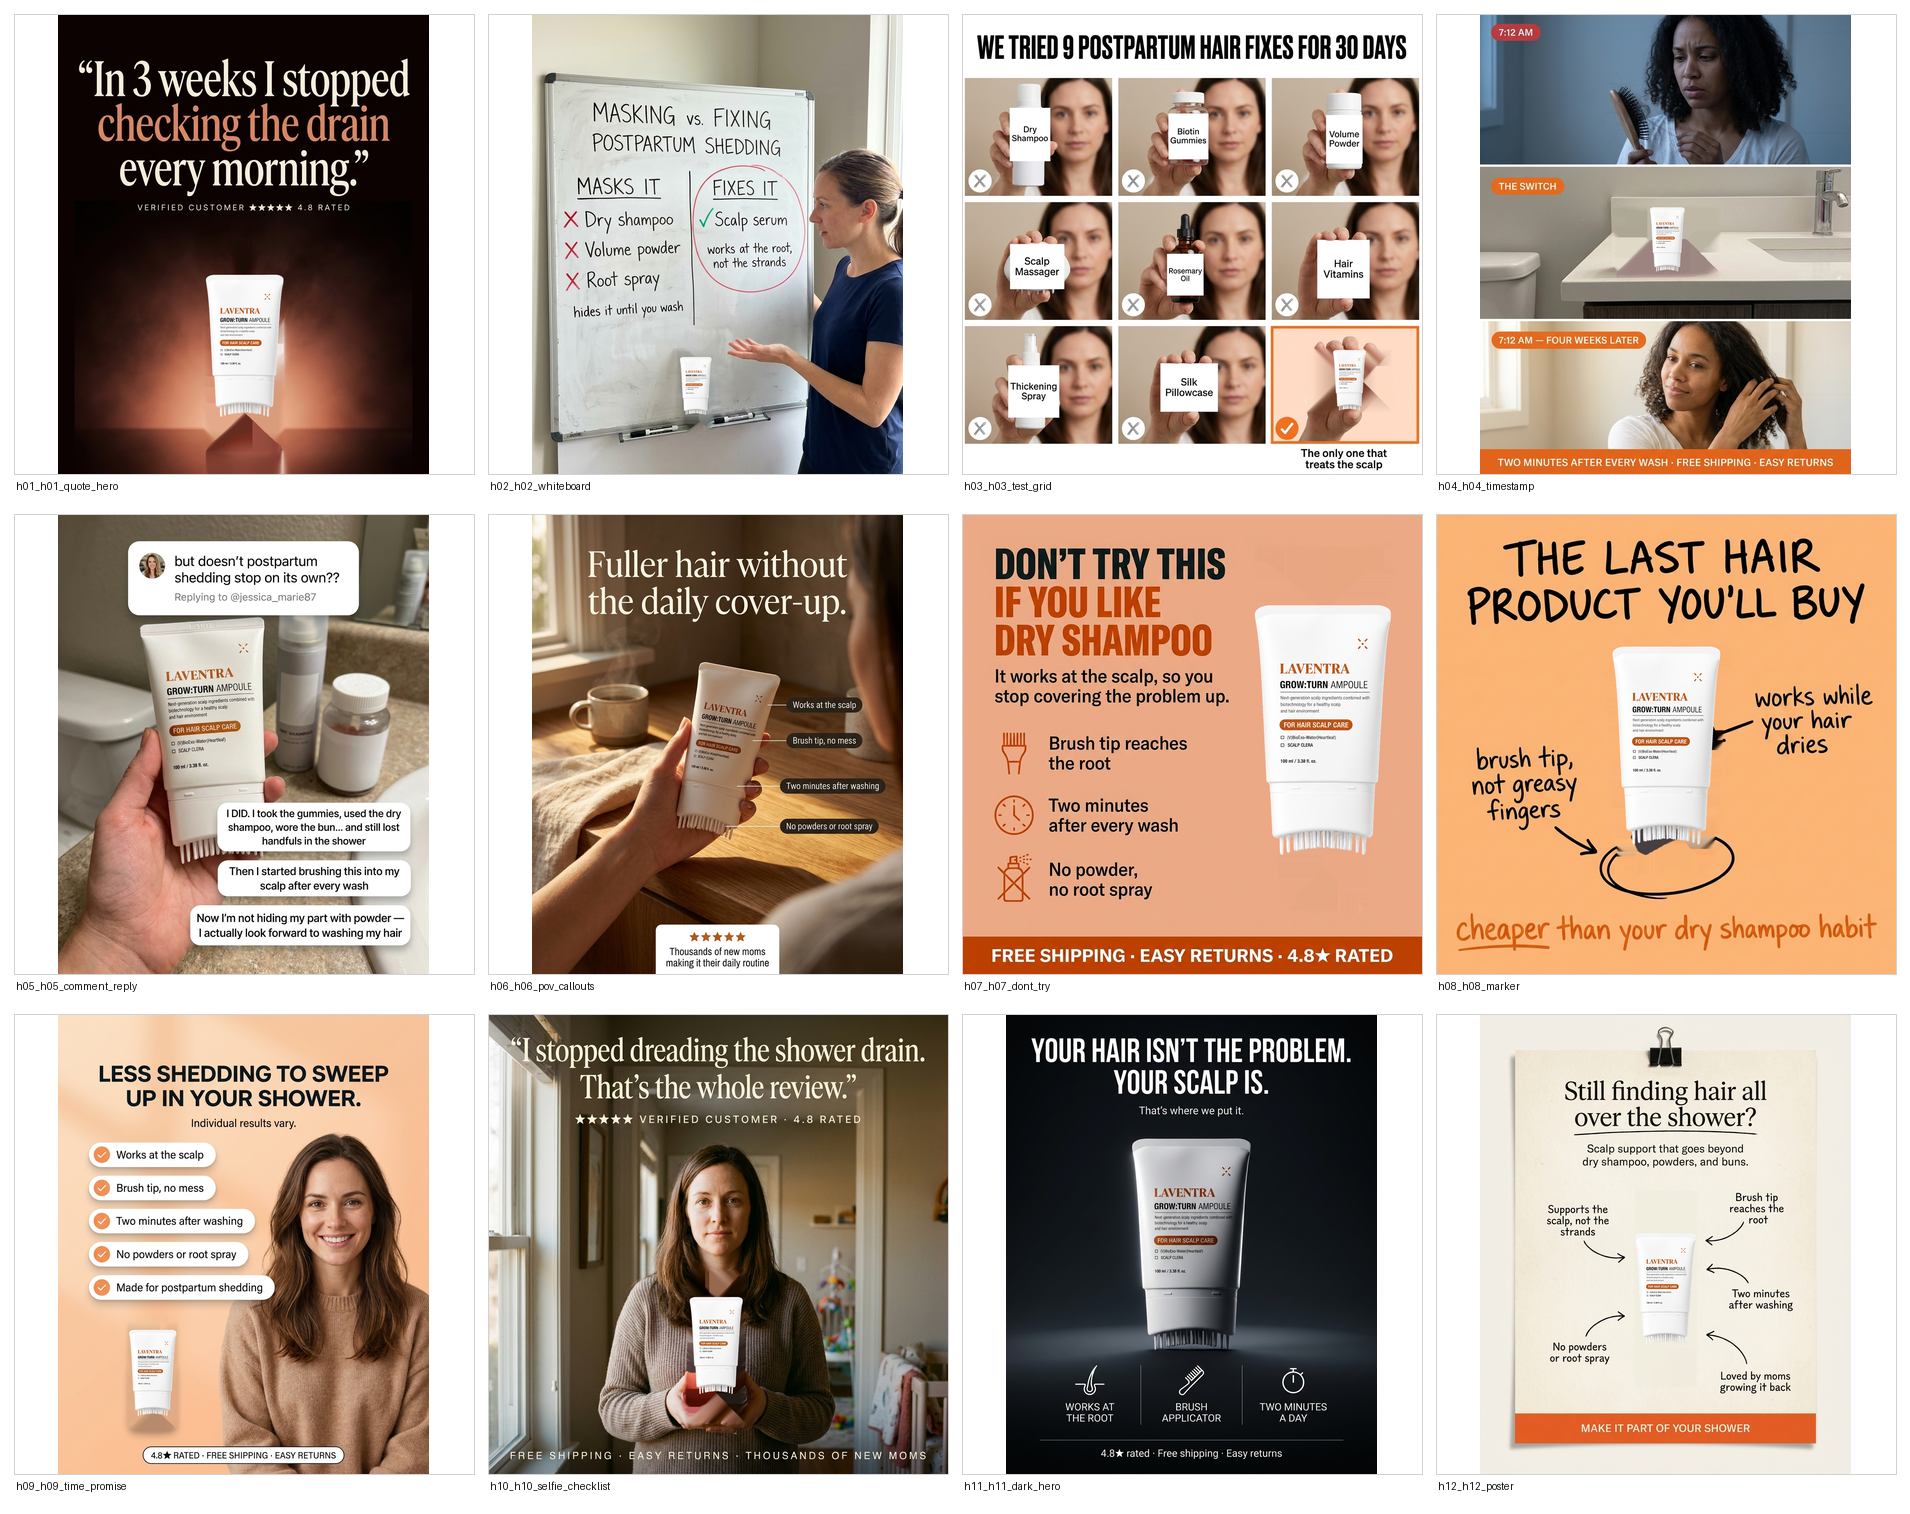
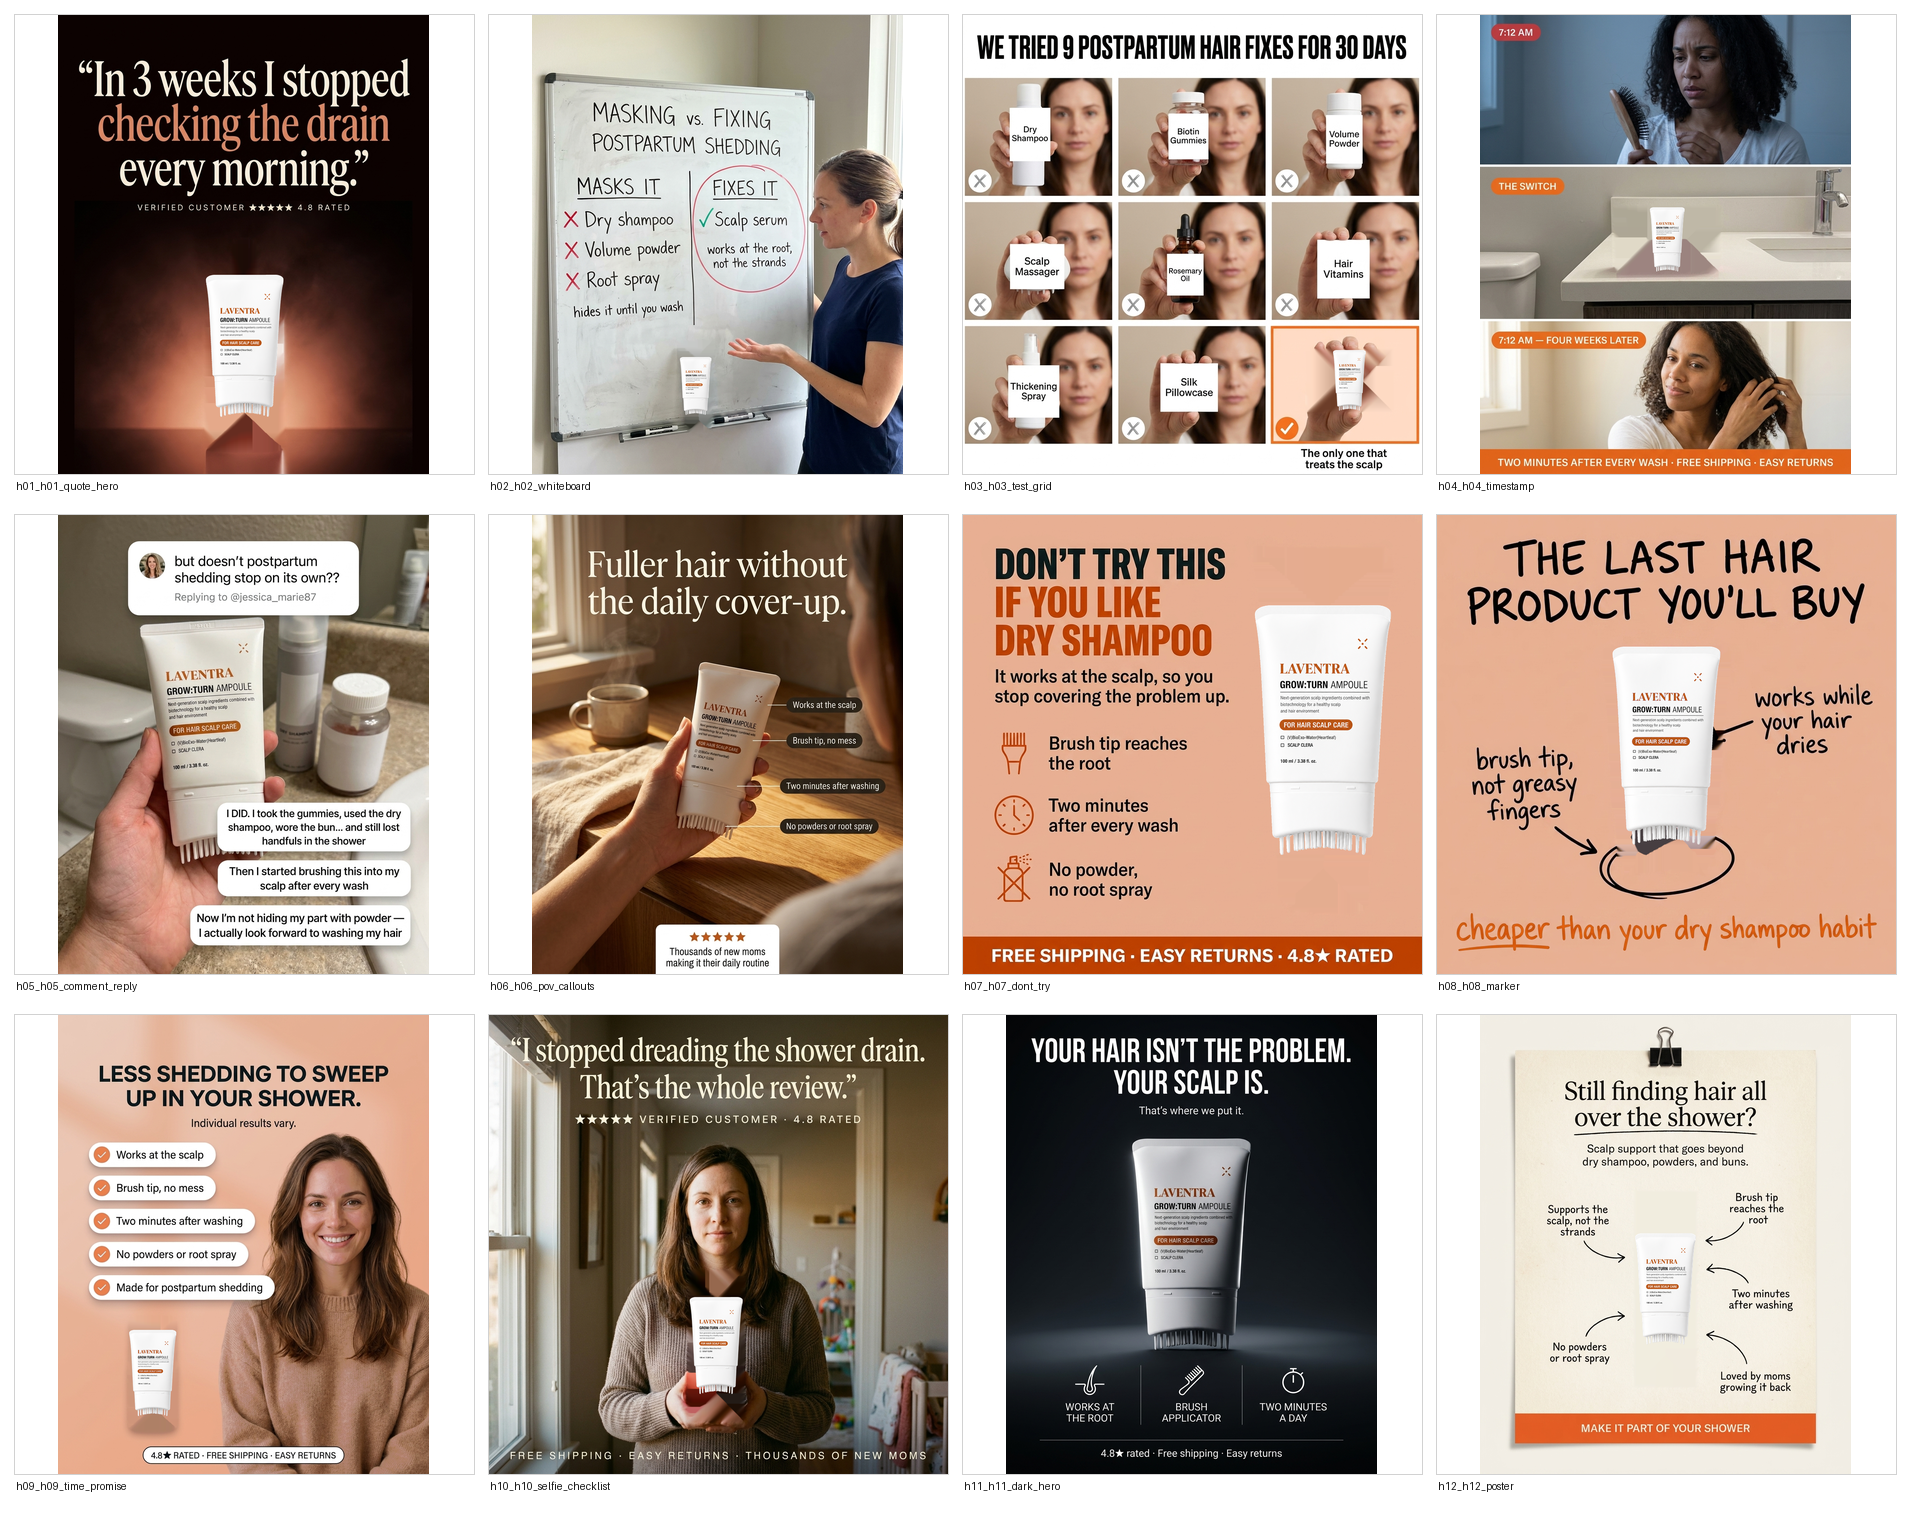
Pull drifted peach fields back to the brand primary E8B093
The peach backgrounds were rendering too orange. Pro holds red and green but
drops blue, so h08 came back #FAB374 against a target blue of 0x93 — that reads
as a saturated orange, not the site's soft primary.

Corrected deterministically rather than by regenerating. recolor_peach.py finds
the dominant warm field, computes its offset from E8B093 and applies that offset
feathered by color distance, so flat fields land on the exact brand value while
gradients and shading keep their modelling. A saturation floor keeps the white
tube, white text and the whiteboard out of it.

  h07  dE 15.1 -> 1.2
  h08  dE 35.9 -> 0.8
  h09  dE 28.3 -> 8.2   (gradient field, so some residual)

Two bugs found while building it, both caught by measuring the result rather
than trusting the pass:

- Deriving the offset from the quantization bucket's lower corner instead of the
  field's true mean overshot every channel, pushing h07 FURTHER from target
  (dE 15 -> 24) on the first attempt.
- A loose "warm pixel" test read h06's dark wood table (#603018) as a peach
  field and shifted 66% of the photo, and would have dragged skin tones on h03,
  whose winner-cell tint is only 8.8% of the frame. The field must now be light,
  already near target, and cover at least a fifth of the image — which restricts
  it to the three genuinely peach-led ads.

Separate and unfixed: only h07, h08 and h09 are peach-led at all. Share of
pixels near E8B093 is 0.2% on h11, 3.6% on h12, 4.7% on h01, 6.6% on h10. That
[…]

Changed region(s): [[0.7414, 0.3415, 1.0, 0.6519]]

diff --git a/.workspace/recolor_peach.py b/.workspace/recolor_peach.py
@@ -1,0 +1,113 @@
+#!/usr/bin/env python3
+"""Pull drifted peach fields back to the exact brand peach E8B093.
+
+Nano Banana Pro renders the peach background consistently too orange — it holds red
+and green but drops blue, so h08 came back #F0A860 (blue 96) and h07 #D8A878
+(blue 120) against a target blue of 147. The result reads as a warmer, more
+saturated orange than the site's primary color.
+
+This corrects it deterministically rather than by regenerating: find the dominant
+warm field, compute its offset from the target, and apply that offset to every
+pixel near it, feathered by distance so gradients, shading and the soft vignette
+survive. Flat fields land on the exact brand value; shaded areas keep their
+relative modelling.
+
+Deliberately does NOT touch:
+  - the product tube (real photographed pixels — near-white, excluded by the
+    saturation floor)
+  - brand orange C14201 accents (far from the peach field, outside the radius)
+  - text, photos of people, or any ad whose dominant color is not a warm peach
+
+    python3 .workspace/recolor_peach.py --dir out_gemini/haloven --out out_gemini/haloven_recolored
+"""
+import argparse
+import os
+
+import numpy as np
+from PIL import Image
+
+TARGET = np.array([0xE8, 0xB0, 0x93], dtype=float)   # E8B093
+
+
+def dominant_warm(a, quant=24):
+    """Most common quantized color, if it is a warm peach-ish field."""
+    q = (a // quant * quant).reshape(-1, 3)
+    keys, counts = np.unique(q, axis=0, return_counts=True)
+    order = np.argsort(-counts)
+    for i in order[:6]:
+        r, g, b = keys[i].astype(float)
+        share = counts[i] / len(q)
+        if share < 0.20:
+            break
+        # Must be a genuine peach BACKGROUND, not any warm pixel:
+        #  - light (r >= 170). Without this, h06's dark wood table (#603018)
+        #    was read as a peach field and 66% of the photo got shifted.
+        #  - already near the target. It is supposed to BE the brand peach,
+        #    just drifted; anything far away is a different color entirely.
+        #  - covering at least a fifth of the frame. h03's winner-cell tint is
+        #    only 8.8% of pixels while faces are far more, so correcting on it
+        #    dragged skin tones along.
+        if (r > g > b and (r - b) > 40 and r >= 170
+                and np.linalg.norm(keys[i].astype(float) - TARGET) < 100):
+            # Use the MEAN of the pixels in this bucket, not the bucket's lower
+            # corner. The corner sits up to `quant`-1 below the true field color,
+            # so deriving the offset from it overshoots every channel — that is
+            # what pushed h07 further from target (dE 15 -> 24) on the first pass.
+            flat = a.reshape(-1, 3)
+            sel = np.all((flat // quant * quant) == keys[i], axis=1)
+            return flat[sel].mean(axis=0), share
+    return None, 0.0
+
+
+def recolor(path, out_path, radius=78.0, feather=42.0):
+    im = Image.open(path).convert("RGB")
+    a = np.asarray(im).astype(float)
+
+    src, share = dominant_warm(a)
+    if src is None:
+        im.save(out_path)
+        return None
+
+    delta = TARGET - src
+    if np.abs(delta).max() < 4:
+        im.save(out_path)
+        return src, share, delta, 0.0
+
+    dist = np.sqrt(((a - src) ** 2).sum(axis=2))
+    # 1 inside the field, ramping to 0 across the feather band
+    w = np.clip((radius + feather - dist) / feather, 0.0, 1.0)
+
+    # never touch near-neutral pixels: that is the white tube, white text and
+    # the whiteboard. Saturation floor keeps the correction on colored fields.
+    mx = a.max(axis=2)
+    mn = a.min(axis=2)
+    sat = (mx - mn) / np.maximum(mx, 1e-6)
+    w = w * np.clip((sat - 0.08) / 0.10, 0.0, 1.0)
+
+    out = np.clip(a + delta[None, None, :] * w[:, :, None], 0, 255)
+    Image.fromarray(out.astype(np.uint8)).save(out_path)
+    return src, share, delta, float(w.mean())
+
+
+def main():
+    ap = argparse.ArgumentParser()
+    ap.add_argument("--dir", required=True)
+    ap.add_argument("--out", required=True)
+    a = ap.parse_args()
+    os.makedirs(a.out, exist_ok=True)
+
+    def h(c):
+        return "#%02X%02X%02X" % tuple(int(v) for v in c)
+
+    for fn in sorted(f for f in os.listdir(a.dir) if f.endswith(".png")):
+        res = recolor(os.path.join(a.dir, fn), os.path.join(a.out, fn))
+        if res is None:
+            print(f"{fn[:26]:28} no warm field — copied unchanged")
+        else:
+            src, share, delta, cov = res
+            print(f"{fn[:26]:28} {h(src)} -> #E8B093   "
+                  f"field {share*100:4.1f}%   shifted {cov*100:4.1f}% of pixels")
+
+
+if __name__ == "__main__":
+    main()
